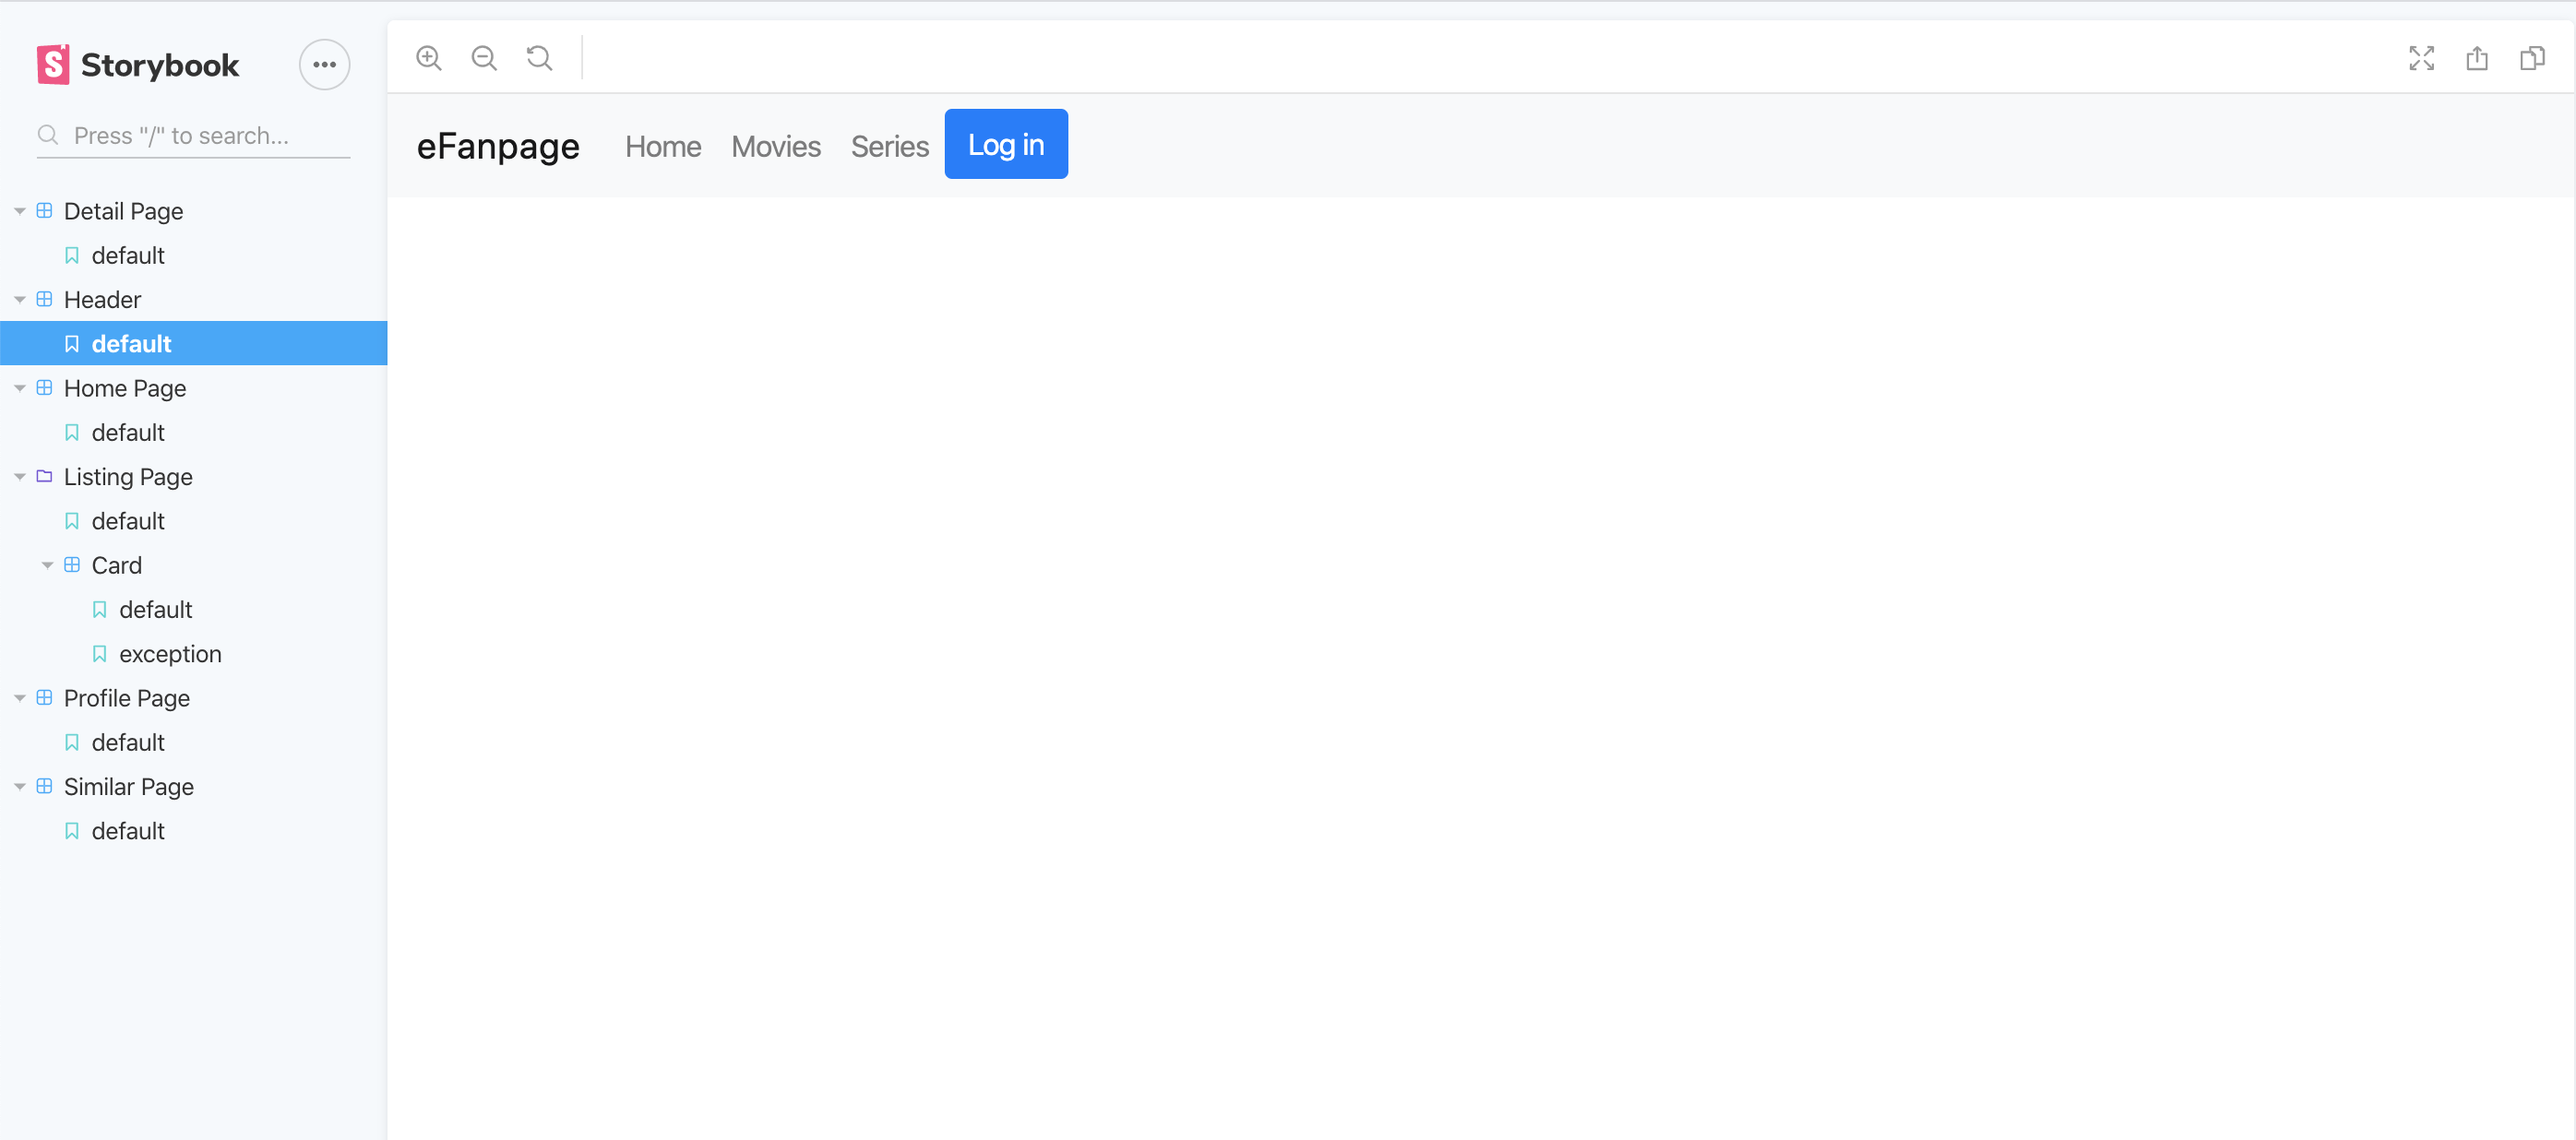
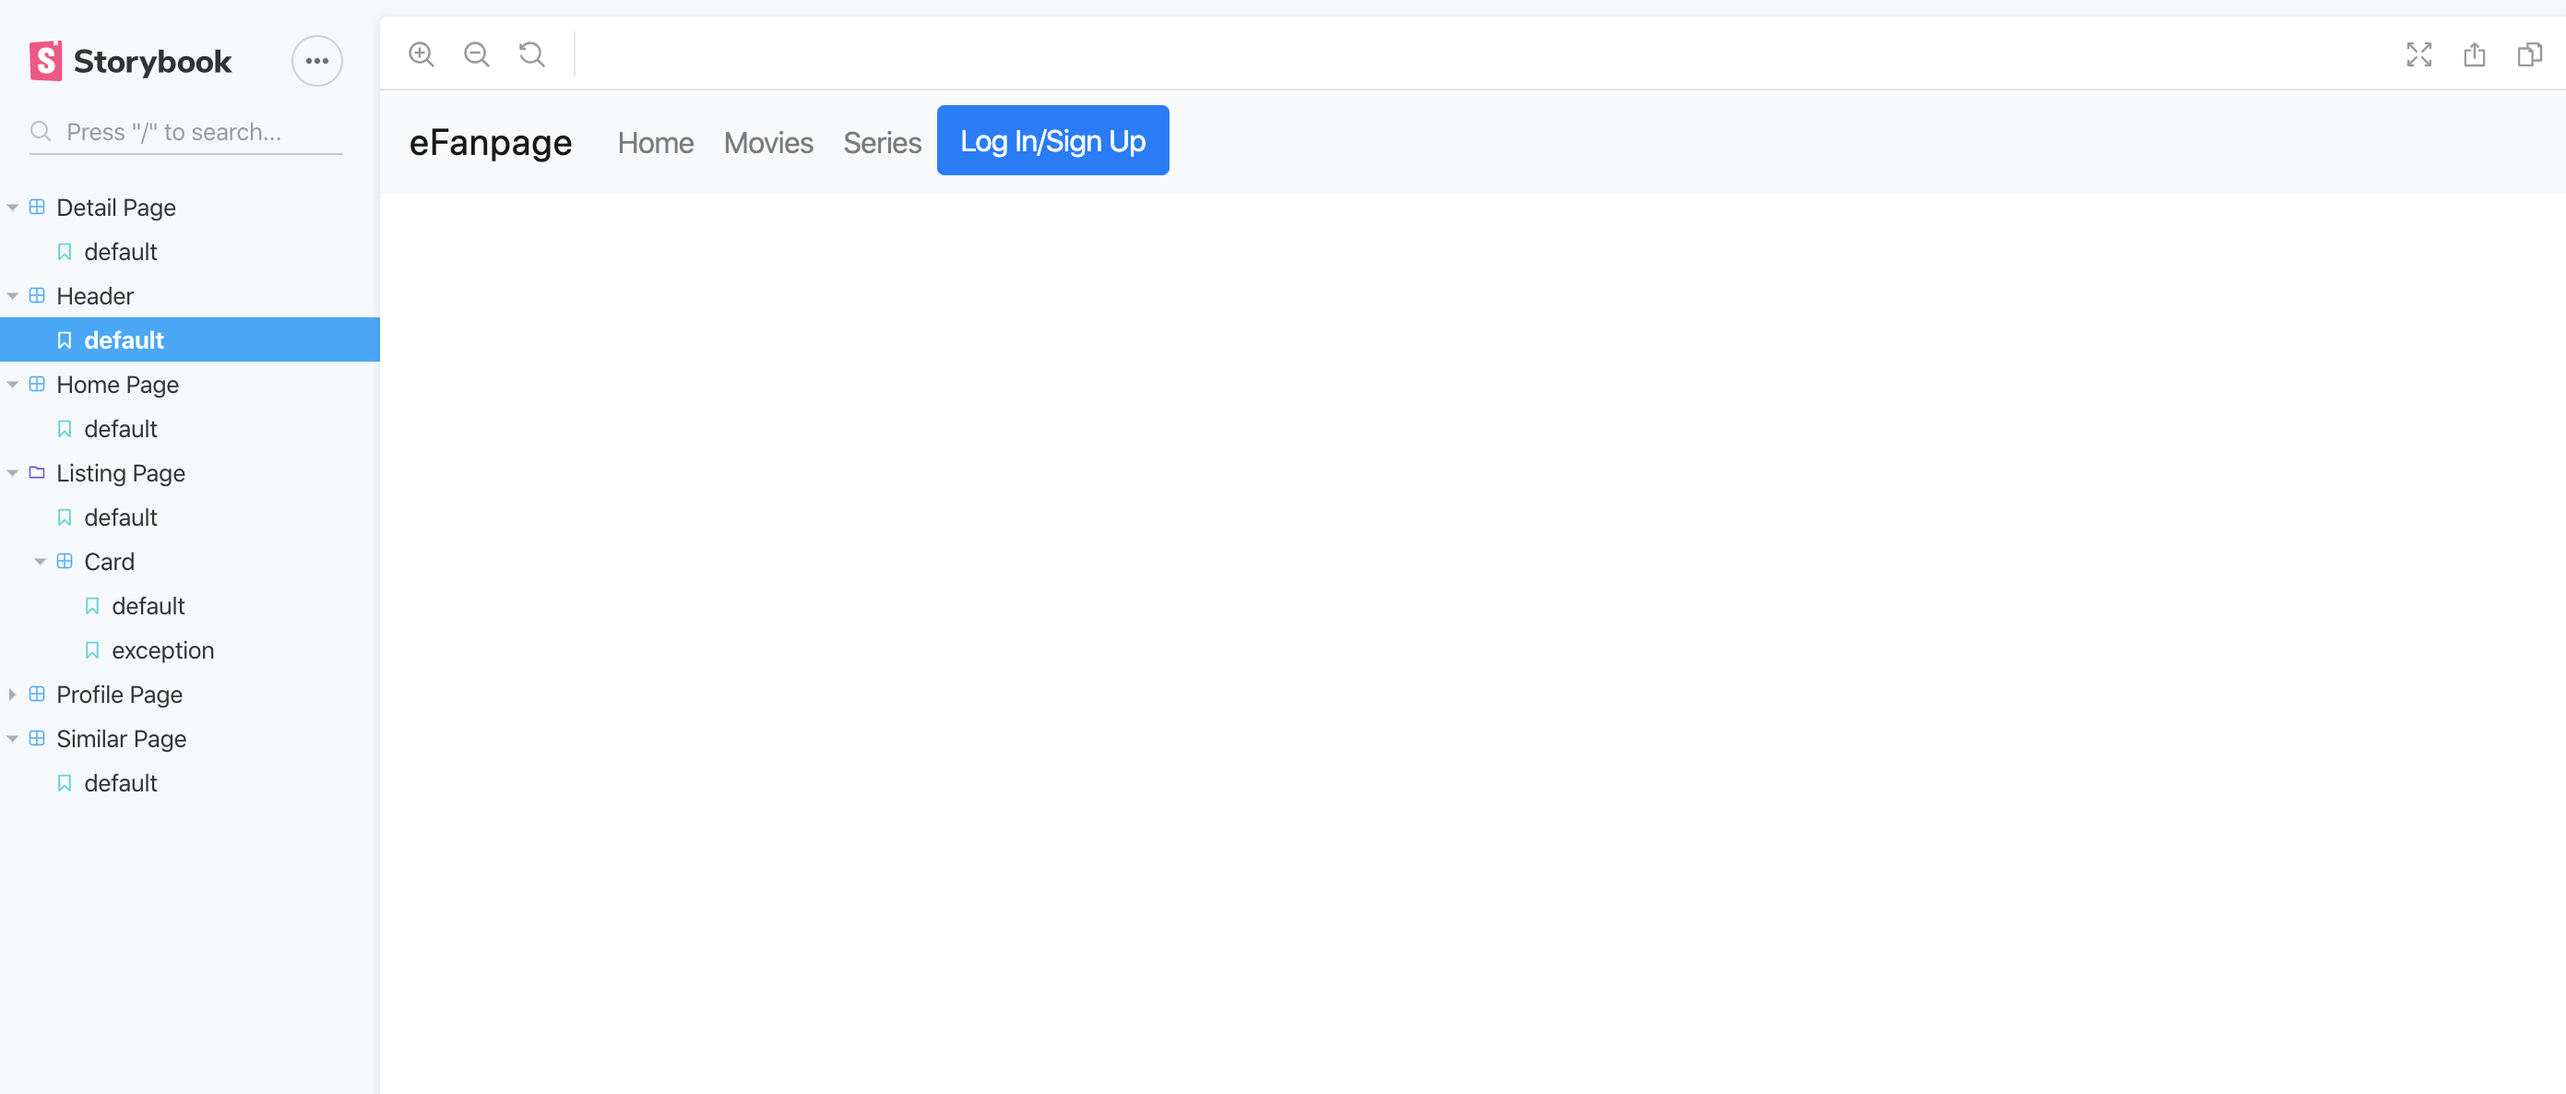
update images and urls

diff --git a/src/lib/utils.js b/src/lib/utils.js
@@ -1,5 +1,5 @@
 export const generateListingUrl = (type, genre = '') => {
-    return `https://media-fanpage-server.herokuapp.com/api/listing/${type}/${genre}`
+    return `${process.env.REACT_APP_SERVER_URL}/api/listing/${type}/${genre}`
 }
 
 export const getList = async (apiUrl, token) => {
@@ -12,7 +12,7 @@ export const getList = async (apiUrl, token) => {
 };
 
 export const generateGenresUrl = (type) => {
-  return `https://media-fanpage-server.herokuapp.com/api/genres/${type}?api_key=${process.env.REACT_APP_API_KEY}&language=en-US`
+  return `${process.env.REACT_APP_SERVER_URL}/api/genres/${type}?api_key=${process.env.REACT_APP_API_KEY}&language=en-US`
 }
 export const getGenres = (genresUrl, token) => {
     return fetch(genresUrl,{headers: {
@@ -25,15 +25,15 @@ export const getGenres = (genresUrl, token) => {
 };
 
 export const generateDetailUrl = (type,id) => {
-  return `https://media-fanpage-server.herokuapp.com/api/listing/${type}/view/${id}`
+  return `${process.env.REACT_APP_SERVER_URL}/api/listing/${type}/view/${id}`
 }
 
 export const generateReviewUrl = (type,id) => {
-  return `https://media-fanpage-server.herokuapp.com/api/reviews/${type}/${id}`
+  return `${process.env.REACT_APP_SERVER_URL}/api/reviews/${type}/${id}`
 }
 
 export const generateFavouriteUrl = (type,id) => {
-  return `https://media-fanpage-server.herokuapp.com/api/favourites/${type}/${id}`
+  return `${process.env.REACT_APP_SERVER_URL}/api/favourites/${type}/${id}`
 }
 
 export const getDetail = (generateDetailUrl, token) => {
@@ -60,7 +60,7 @@ export const addReview = (reviewUrl, review, token) => {
 
 export const getReviews = (type, id, token) => {
   return fetch(
-    `https://media-fanpage-server.herokuapp.com/api/reviews/${type}/${id}`,
+    `${process.env.REACT_APP_SERVER_URL}/api/reviews/${type}/${id}`,
     {headers: {
       'Authorization': `Bearer ${token}`
    }
@@ -91,7 +91,7 @@ export const addFavourite = (favouriteUrl, username, id, type, favourite = true,
 
 export const getFavourites = ( type, username, token) => {
   return fetch(
-    `https://media-fanpage-server.herokuapp.com/api/favourites/${username}/${type}`,
+    `${process.env.REACT_APP_SERVER_URL}/api/favourites/${username}/${type}`,
     {headers: {
       'Authorization': `Bearer ${token}`
    }
@@ -101,7 +101,7 @@ export const getFavourites = ( type, username, token) => {
 };
 
 export const generateCastUrl = (type,id) => {
-  return `https://media-fanpage-server.herokuapp.com/api/listing/${type}/view/${id}?api_key=${process.env.REACT_APP_API_KEY}&language=en-US`
+  return `${process.env.REACT_APP_SERVER_URL}/api/listing/${type}/view/${id}?api_key=${process.env.REACT_APP_API_KEY}&language=en-US`
 }
 export const getCast = (generateDetailUrl) => {
     return fetch(generateDetailUrl,{headers: {
@@ -113,7 +113,7 @@ export const getCast = (generateDetailUrl) => {
 
 
 export const getSimilar = (type, id, token) => {
-    return fetch(`https://media-fanpage-server.herokuapp.com/api/listing/similar/${type}/${id}?api_key=${process.env.REACT_APP_API_KEY}&language=en-US&page=1`,
+    return fetch(`${process.env.REACT_APP_SERVER_URL}/api/listing/similar/${type}/${id}?api_key=${process.env.REACT_APP_API_KEY}&language=en-US&page=1`,
     {headers: {
       'Authorization': `Bearer ${token}`
      }
@@ -123,7 +123,7 @@ export const getSimilar = (type, id, token) => {
 };
 
   export const login = (username, password) => {
-   return fetch(`https://media-fanpage-server.herokuapp.com/api/users`, {
+   return fetch(`${process.env.REACT_APP_SERVER_URL}/api/users`, {
     headers: {
       'Accept': 'application/json',
       'Content-Type': 'application/json'
@@ -134,7 +134,7 @@ export const getSimilar = (type, id, token) => {
   };
 
   export const signup = (username, password = '') => { 
-    return fetch(`https://media-fanpage-server.herokuapp.com/api/users?action=register`,{
+    return fetch(`${process.env.REACT_APP_SERVER_URL}/api/users?action=register`,{
       headers: {
         'Accept': 'application/json',
         'Content-Type': 'application/json'

diff --git a/src/components/Header.js b/src/components/Header.js
@@ -21,7 +21,11 @@ const Header = (props) => {
                 <Nav.Link href="/listing/tv">Series</Nav.Link>
                 <div>
                     {!isAuthenticated && (
-                        <Button onClick={() => loginWithRedirect({})}>Log In/Sign Up</Button>
+                        <React.Fragment>
+                            <Button onClick={() => loginWithRedirect({})}>Log In</Button> &nbsp;
+                            <Button variant="light" onClick={() => loginWithRedirect({})}>Sign Up</Button>
+                        </React.Fragment>
+                        
                     )}
 
                     {isAuthenticated && <Button onClick={() => logout()}>Log Out</Button>}

diff --git a/README.md b/README.md
@@ -14,9 +14,11 @@ Media-Fanpage app lists movies or series based on the user selection.
 + Users get the details of cast also when getting the details about a movie or series
 + Profile Page of the User
 
+
 ## Setup requirements.
 
 . . . . Briefly state (to a third party) the setup steps necessary to run your app/client. [You need only reference the server-side repo's URL for completeness - its README will detail server-side initialization requirements.]
+
 
 ## Data Model Design.
 
@@ -3667,11 +3669,28 @@ Media-Fanpage app lists movies or series based on the user selection.
 
 
 
+
+
 ## App Design.
 
 ### Component catalogue.
 
-[stories]: ./public/storybookImages/storybookComponents.png
+![Storybook Components][storybookComponents]: 
+> Component stories from the Storybook UI 
+
+![Card Component][card]
+
+![Detail Page][detailPage]
+
+![Header][Header]
+
+![Home Page][homepage]
+
+![Listing Page][listingPage]
+
+![Profile Page][profilePage]
+
+![Similars Page][similarsPage]
 
 
 ### Design patterns.
@@ -3690,8 +3709,27 @@ Media-Fanpage app lists movies or series based on the user selection.
 
 . . . . . Screenshots of app's views (see example below) with appropriate captions (For extension to the Movies Fan App, only show the new/modified views) . . . . . . . 
 
-![][view]
->Shows detailed information on a movie. Clicking the 'Show Reviews' button will display extracts from critic reviews.
+![HomePage View][HomePageView]
+> This is the Landing Page. Clicking on Movie/Tv Image takes you to movies/Series list page. 
+
+![Movie List Page View][MovieListPageView]
+> Displays list of movies. User can add a movie to favourites list by clicking on the Add to Favourite button or delete a movie from favourites list clicking on the Remove from Favourite button and get a list of similar movies by clicking on the similar button.
+
+![Series List Page View][SeriesListPageView]
+> Displays list of series. User can add a series to favourites list by clicking on the Add to Favourite button or delete a series from favourites list clicking on the Remove from Favourite button and get a list of similar series by clicking on the similar button.
+
+![Detail Page View][DetailPageView]
+> Displays details and reviews of the movie/series and users can add reviews their here.
+
+![Similar Movies Page View][SimilarMoviesPageView]
+> Displays list of movies similar to the selected movie.
+
+![Similar Series Page View][SimilarSeriesPageView]
+> Displays list of series similar to the selected series.
+
+![Profile Page View][ProfilePageView]
+> Displays the profile of the user i.e. user name and email id along with user image.
+
 
 ## Routing.
 
@@ -3713,3 +3751,19 @@ Reference: https://auth0.com/docs/quickstart/spa/react
 Heroku used for Deployment of the App.
 Reference: https://www.freecodecamp.org/news/deploy-a-react-node-app-to/
 https://blog.heroku.com/deploying-react-with-zero-configuration
+
+[storybookComponents]: ./public/storybookImages/storybookComponents.png
+[card]: ./public/storybookImages/card.png
+[detailPage]: ./public/storybookImages/detailPage.png
+[Header]: ./public/storybookImages/Header.png
+[homepage]: ./public/storybookImages/homepage.png
+[listingPage]: ./public/storybookImages/listingPage.png
+[profilePage]: ./public/storybookImages/profilePage.png
+[similarsPage]: ./public/storybookImages/similarsPage.png
+[HomePageView]: ./public/UI-Views/HomePageView.png
+[MovieListPageView]: ./public/UI-Views/MovieListPageView.png
+[SeriesListPageView]: ./public/UI-Views/SeriesListPageView.png
+[DetailPageView]: ./public/UI-Views/DetailPageView.png
+[SimilarMoviesPageView]: ./public/UI-Views/SimilarMoviesPageView.png
+[SimilarSeriesPageView]: ./public/UI-Views/SimilarSeriesPageView.png
+[ProfilePageView]: ./public/UI-Views/ProfilePageView.png
